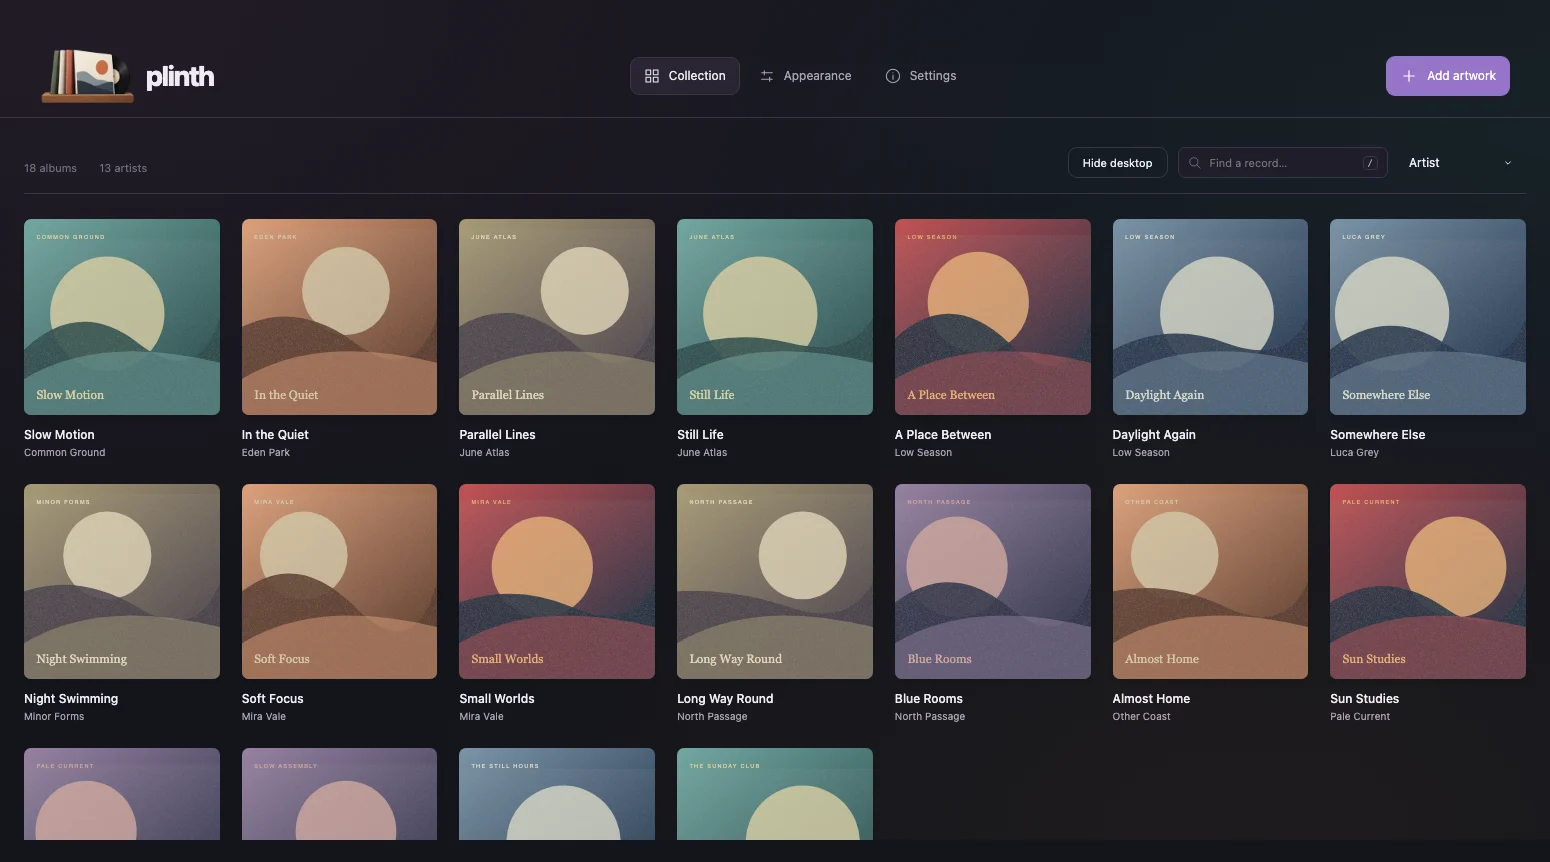
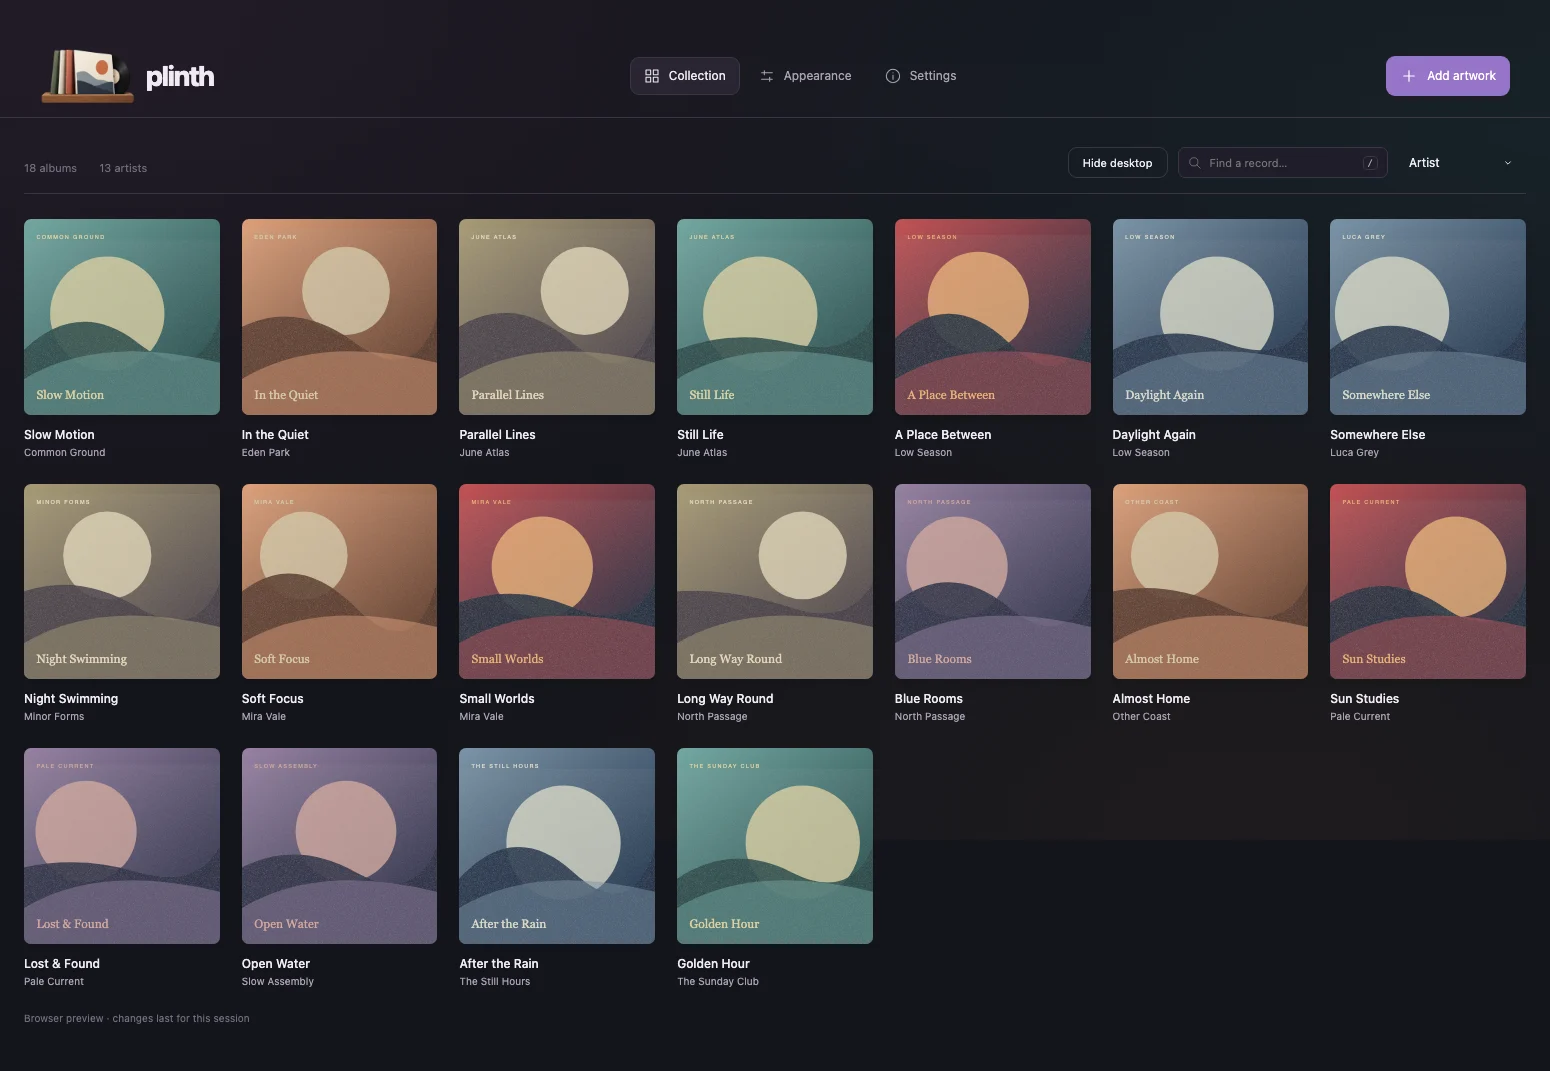
Restore collection scrolling while keeping desktop fixed

diff --git a/tests/app.spec.ts b/tests/app.spec.ts
@@ -133,28 +133,31 @@ test('desktop rows have equal margins, center incomplete rows, and cannot scroll
  for(const row of rows)expect(row.center).toBeCloseTo(rows[0].center,1)
 })
 
-test('Collection blocks wheel, keyboard, focus and programmatic scrolling',async({page})=>{
+test('Collection scrolls to every album with wheel, keyboard and focus, including after switching pages',async({page})=>{
  await page.setViewportSize({width:800,height:500})
  await page.goto('/?demo=1')
  await expect(page.locator('.album-card')).toHaveCount(18)
- const first=page.locator('.album-card').first()
- const top=await first.evaluate(el=>el.getBoundingClientRect().top)
- await first.hover();await page.mouse.wheel(0,1200)
- await page.keyboard.press('PageDown');await page.keyboard.press('End')
- await page.locator('.album-card button').last().evaluate(el=>el.focus())
- await page.evaluate(()=>{window.scrollTo(0,1200);document.querySelector('.app-shell')?.scrollTo(0,1200)})
- expect(await page.evaluate(()=>window.scrollY)).toBe(0)
- expect(await page.locator('.app-shell').evaluate(el=>el.scrollTop)).toBe(0)
- expect(await first.evaluate(el=>el.getBoundingClientRect().top)).toBe(top)
- // Records outside the fixed view can still be found using search.
- await page.getByRole('searchbox').fill('Soft Focus')
- await expect(page.locator('.album-card')).toHaveCount(1)
- await expect(page.getByRole('button',{name:'Edit Soft Focus',exact:true})).toBeInViewport()
+ const last=page.locator('.album-card .artwork').last()
+ await expect(last).not.toBeInViewport()
+ await page.locator('.album-card').first().hover()
+ await page.mouse.wheel(0,2400)
+ await expect.poll(()=>page.evaluate(()=>window.scrollY)).toBeGreaterThan(0)
+ await expect(last).toBeInViewport()
+ await page.mouse.wheel(0,-2400)
+ await expect.poll(()=>page.evaluate(()=>window.scrollY)).toBe(0)
+ await page.keyboard.press('PageDown')
+ await expect.poll(()=>page.evaluate(()=>window.scrollY)).toBeGreaterThan(0)
+ await page.evaluate(()=>window.scrollTo(0,0))
+ await last.evaluate(el=>el.focus())
+ await expect(last).toBeInViewport()
+ await last.press('Enter')
+ await expect(page.getByRole('dialog')).toBeVisible()
+ await page.getByRole('button',{name:'Close album editor'}).click()
  await page.getByRole('button',{name:'Appearance',exact:true}).click()
- await expect(page.locator('html')).not.toHaveClass(/collection-document/)
  await page.evaluate(()=>window.scrollTo(0,1200))
- expect(await page.evaluate(()=>window.scrollY)).toBeGreaterThan(0)
+ await expect.poll(()=>page.evaluate(()=>window.scrollY)).toBeGreaterThan(0)
  await page.getByRole('button',{name:'Collection',exact:true}).click()
- await expect(page.locator('html')).toHaveClass(/collection-document/)
- expect(await page.evaluate(()=>window.scrollY)).toBe(0)
+ await page.locator('.album-card').first().hover()
+ await page.mouse.wheel(0,2400)
+ await expect(last).toBeInViewport()
 })

diff --git a/src/app.css b/src/app.css
@@ -27,8 +27,5 @@ dialog{width:min(510px,calc(100vw - 40px));padding:26px;border:1px solid var(--l
 
 .quit-actions{flex-wrap:wrap}.quit-actions kbd{color:inherit;font-size:10px;white-space:nowrap}.quit-dialog h2:focus{outline:none}
 
-/* Album lists stay fixed; overflow is clipped rather than scrollable. */
-.collection-document,.collection-document body{height:100%;overflow:clip;overscroll-behavior:none}.collection-document body{position:fixed;inset:0}.collection-document .app-shell{height:100dvh;overflow:clip}
-
 .logo-options{display:flex;gap:16px}.logo-option{display:flex;flex-direction:column;gap:8px;padding:3px;border:0;background:none!important;font-size:10px;color:var(--muted)}.logo-preview{display:grid;place-items:center;width:64px;height:64px;border-radius:10px;border:1px solid var(--line);background:var(--paper)}.logo-option.chosen{color:var(--ink)}.logo-option.chosen .logo-preview{outline:2px solid var(--accent);outline-offset:2px}.logo-option:hover .logo-preview{background:var(--paper-strong)}.logo-preview svg{border-radius:8px;overflow:hidden}
 @media(max-width:420px){.logo-setting{flex-wrap:wrap}.logo-options{gap:12px}}

diff --git a/src/App.svelte b/src/App.svelte
@@ -61,7 +61,7 @@
  $: enabled=library.albums.filter(a=>a.enabled)
  $: filtered=ordered(library.albums.filter(a=>`${a.title} ${a.artist}`.toLowerCase().includes(query.toLowerCase())),settings.sort,settings.shuffleSeed)
  $: artists=new Set(library.albums.map(a=>a.artist).filter(Boolean)).size
- $: if(typeof document!=='undefined') {document.documentElement.dataset.theme=settings.theme==='system'?(mediaDark?'dark':'light'):settings.theme;document.documentElement.classList.toggle('desktop-document',desktop);document.documentElement.classList.toggle('collection-document',!desktop&&page==='collection')}
+ $: if(typeof document!=='undefined') {document.documentElement.dataset.theme=settings.theme==='system'?(mediaDark?'dark':'light'):settings.theme;document.documentElement.classList.toggle('desktop-document',desktop)}
  $: if(edit && modal && !modal.open) modal.showModal()
  function message(text:string) {notice=text;setTimeout(()=>{if(notice===text)notice=''},6000)}
  function persist() {
